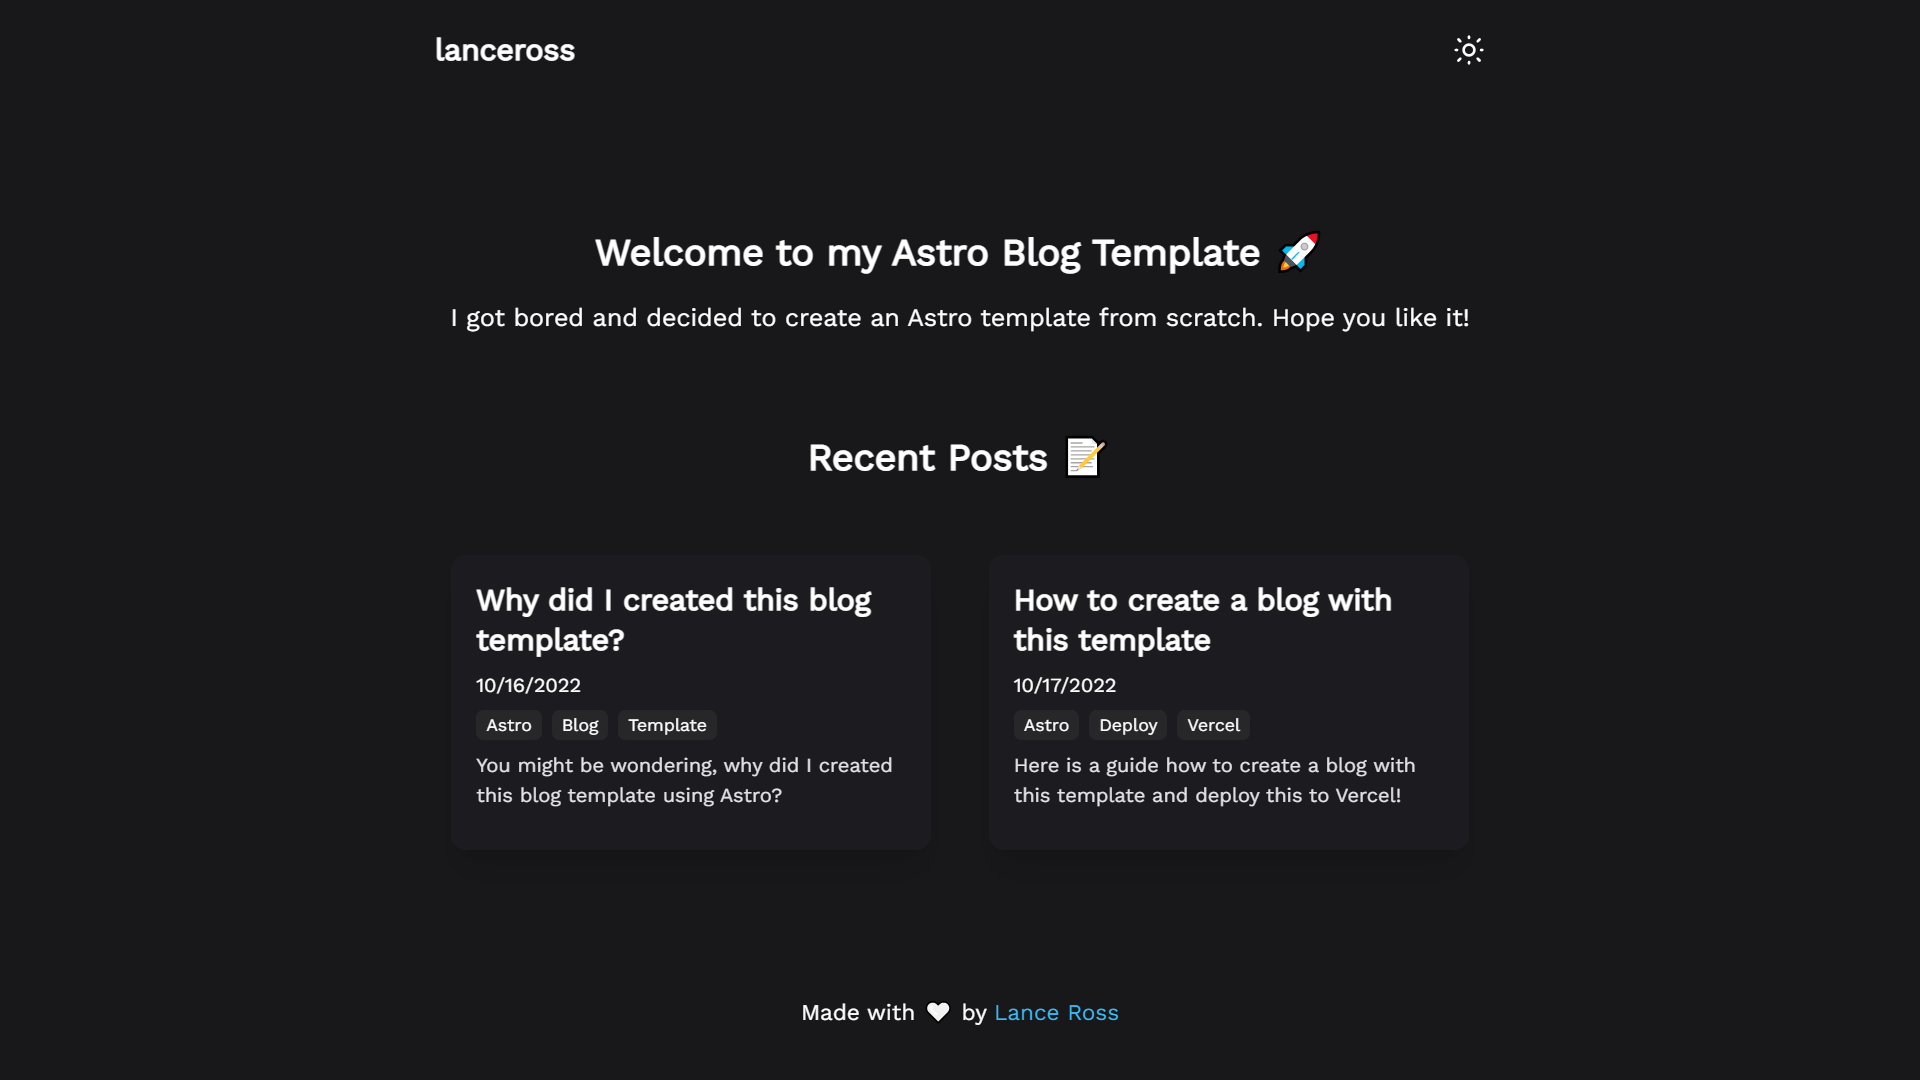
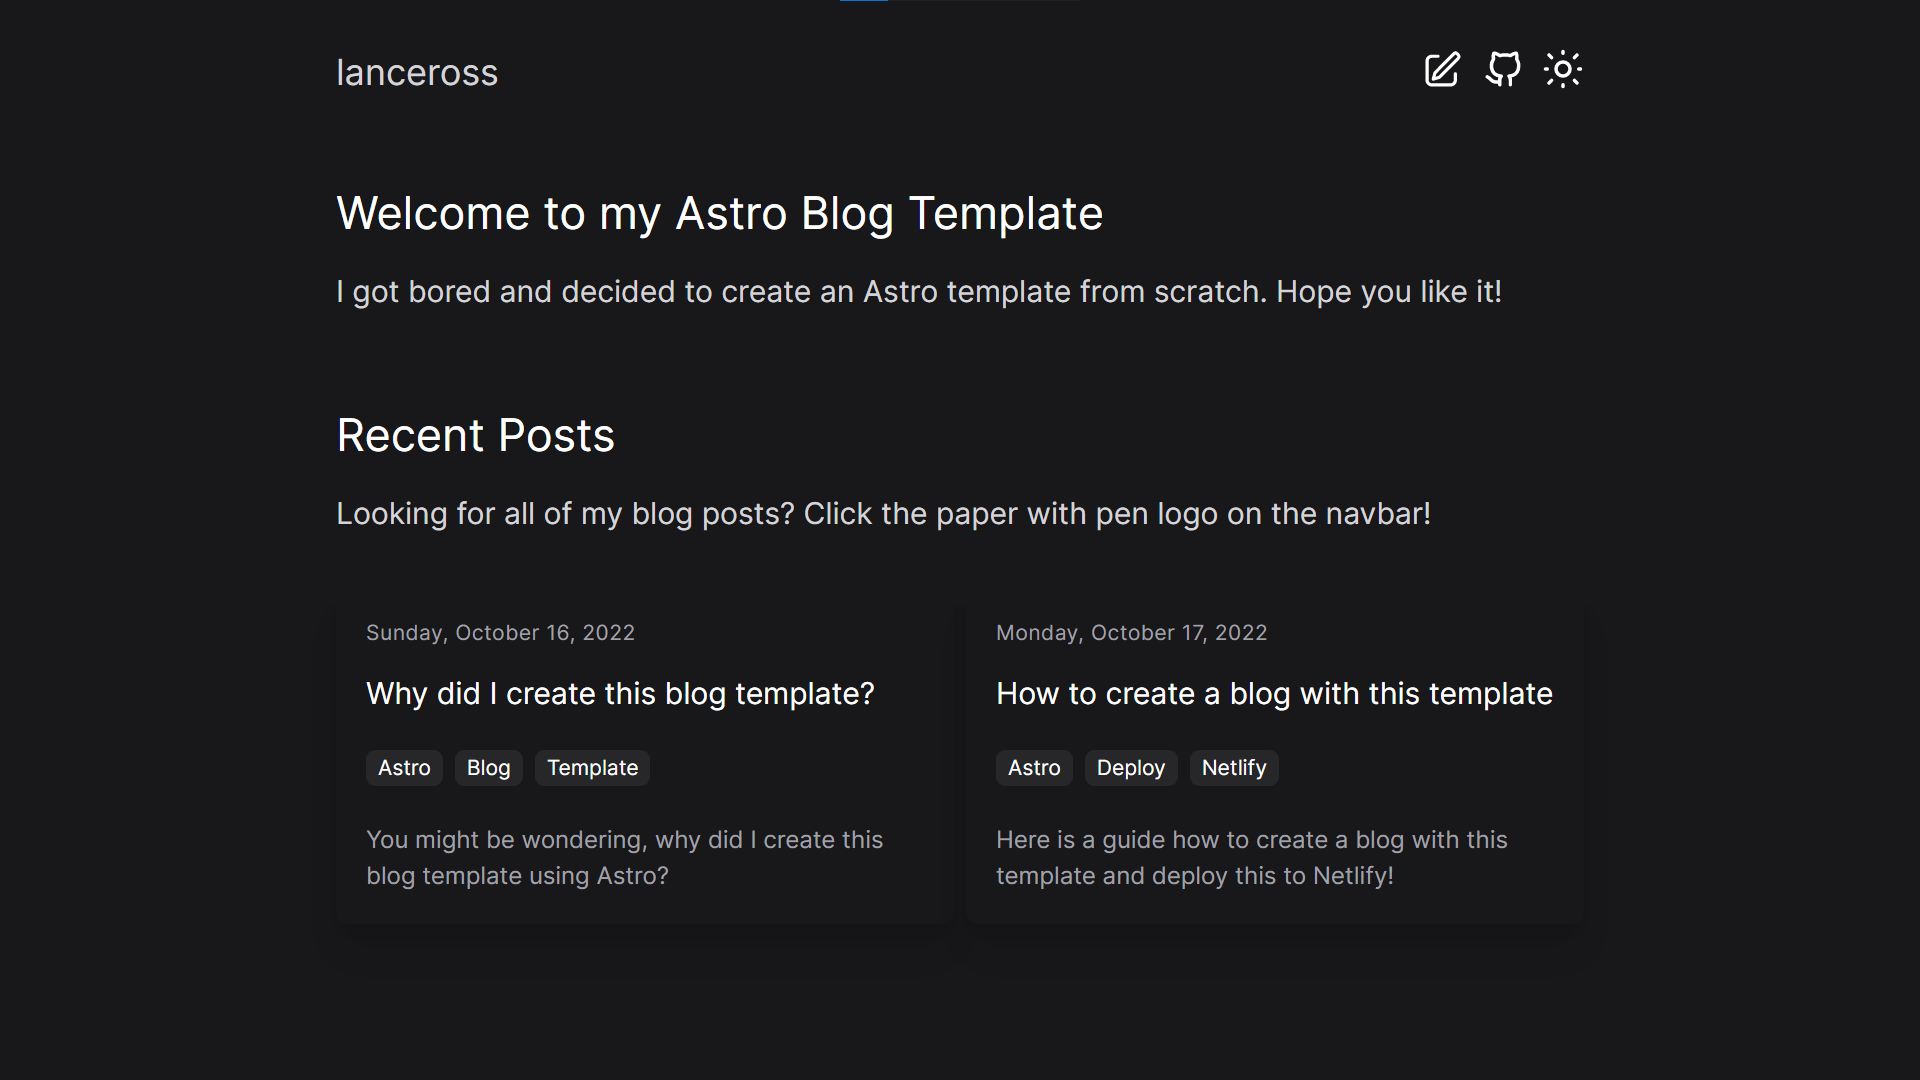
fixed blog cards and designs

diff --git a/src/content/blogs.ts b/src/content/blogs.ts
@@ -1,7 +1,7 @@
 export const blogs = [
   {
     "title": "My new Astro Blog Template",
-    "description": "I just want to share the blog template that I created using Astro!",
+    "description": "I just want to share the blog template that I did using Astro!",
     "pubDate": "2022-10-17",
     "url": "/blog/my-new-astro-template",
   },
